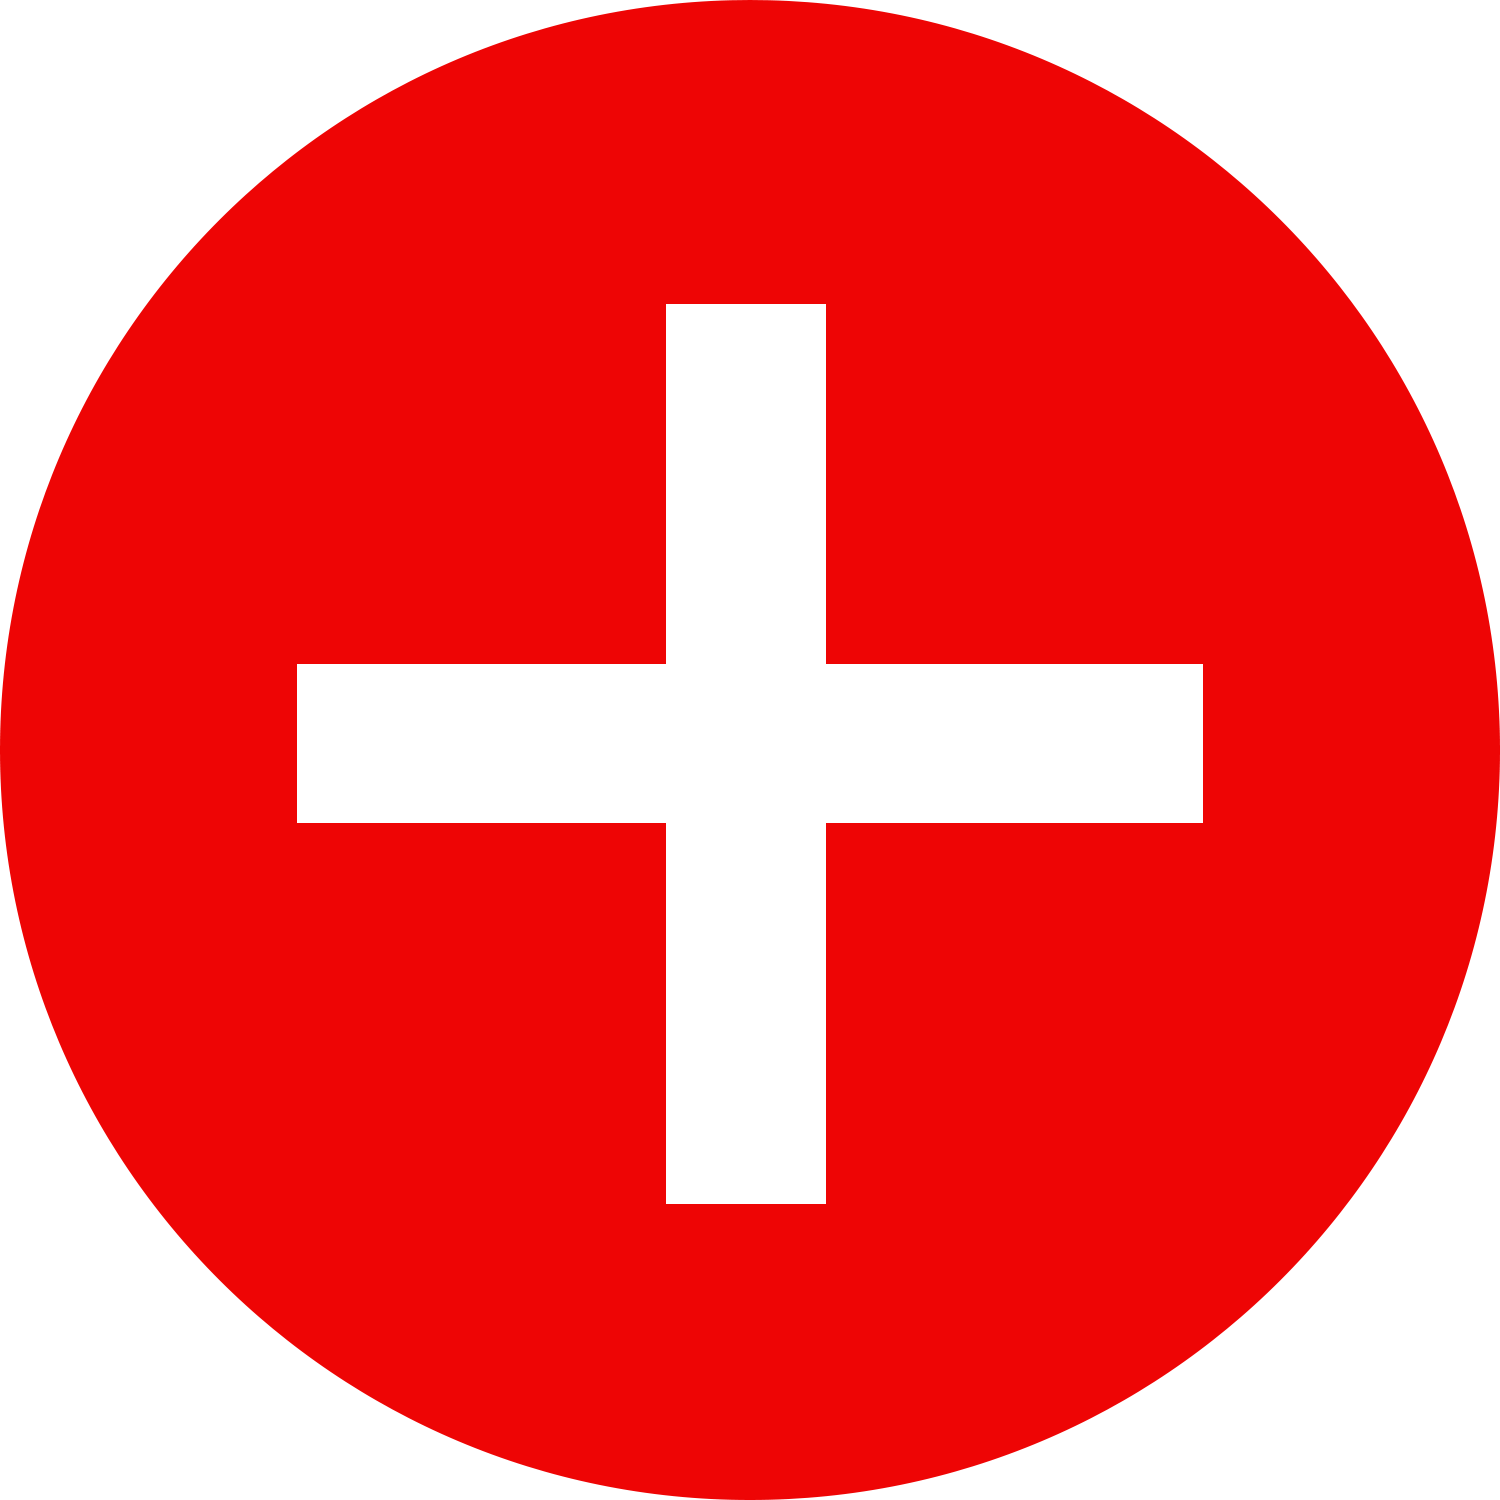
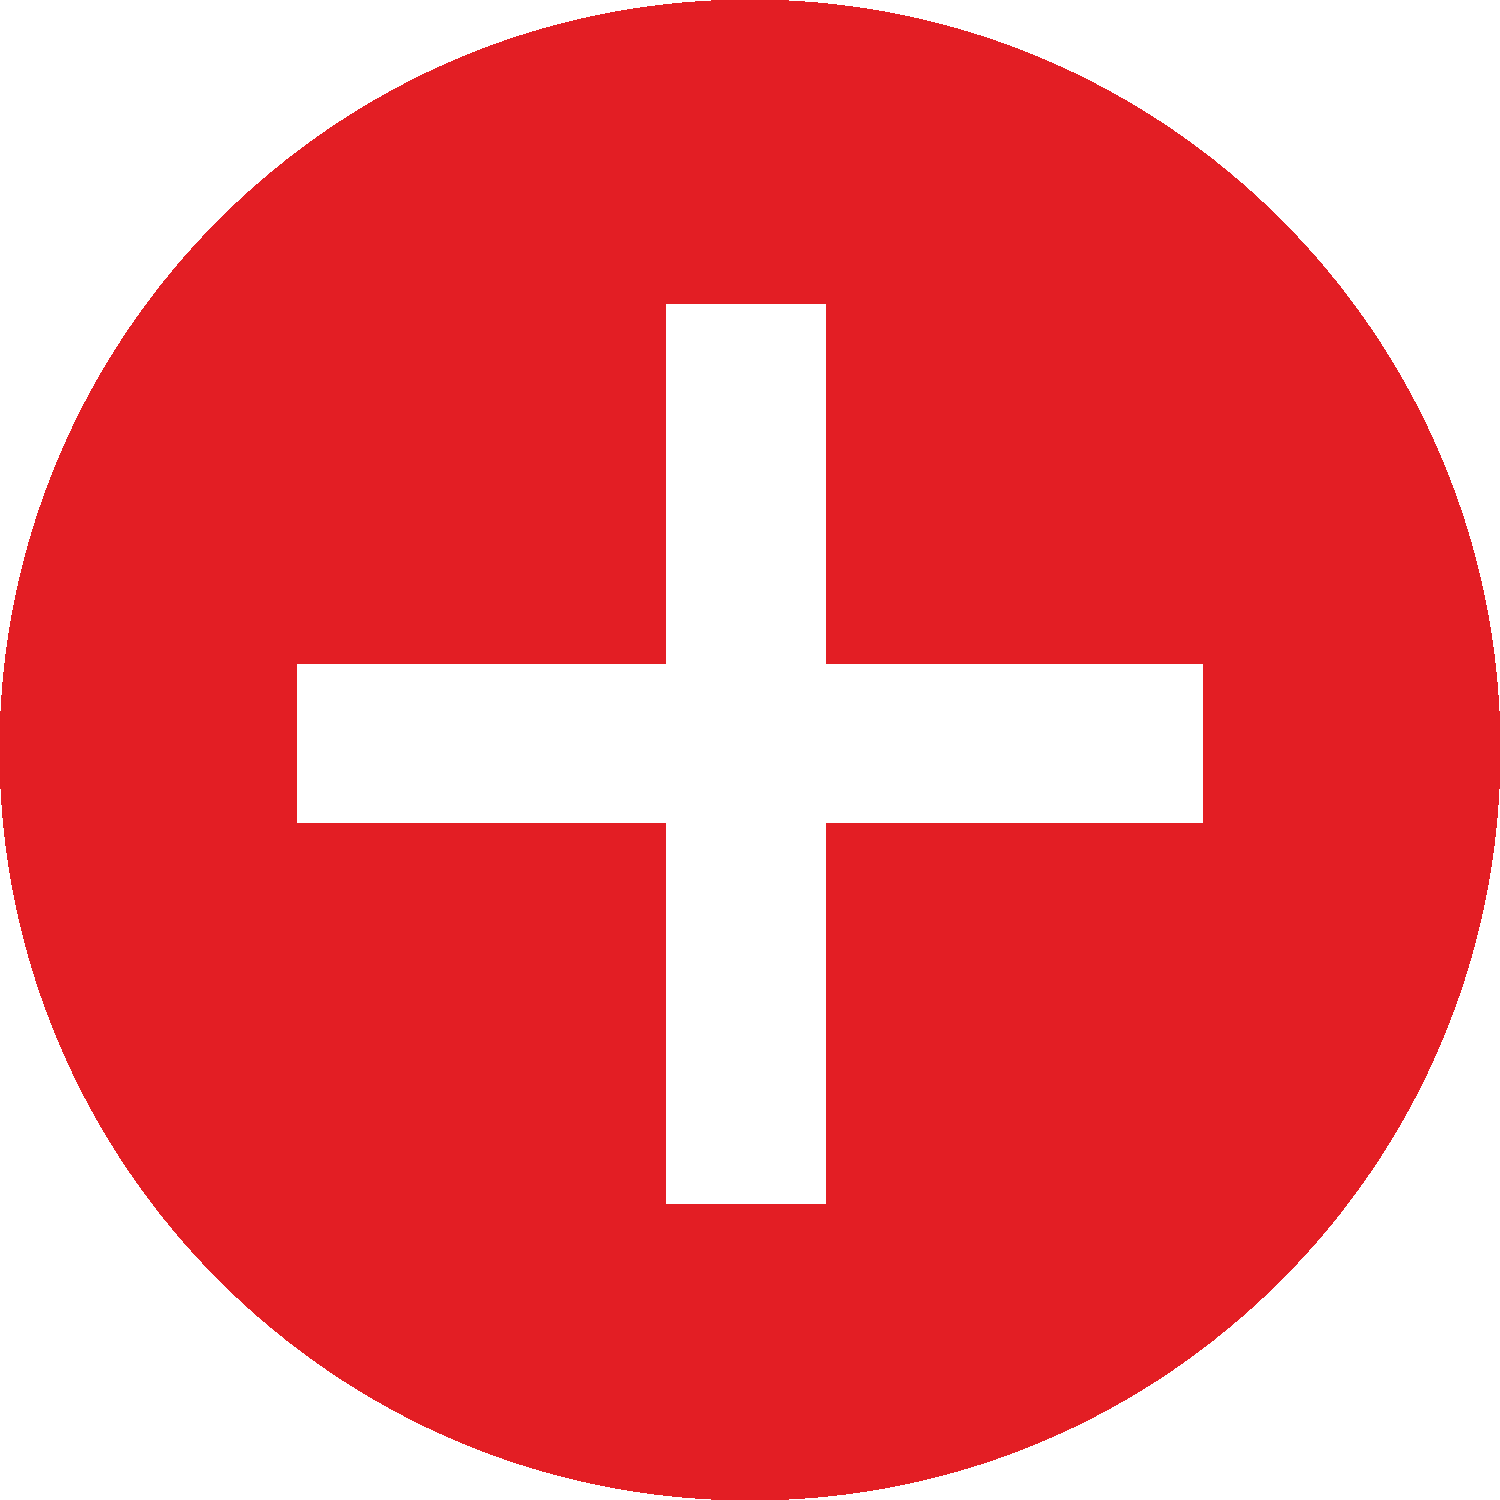
Changed styles.

diff --git a/GradeExpertCRM/GradeExpertCRM/Styles/Style.xaml b/GradeExpertCRM/GradeExpertCRM/Styles/Style.xaml
@@ -8,7 +8,7 @@
 		<Setter Property="Foreground" Value="#FFFFFFFF"/>
 		<Setter Property="BorderThickness" Value="0"/>
 		<Setter Property="Margin" Value="2 0 2 10"/>
-		<Setter Property="Background" Value="#EE0505"/>
+		<Setter Property="Background" Value="#E31E24"/>
 		<Setter Property="BorderBrush" Value="#FFFFFFFF"/>
 		<Setter Property="MaxHeight" Value="50"/>
 	</Style>
@@ -38,7 +38,7 @@
 	</Style>
 
     <Style Selector="Border.BorderOfText">
-        <Setter Property="BorderBrush" Value="#EE0505"/>
+        <Setter Property="BorderBrush" Value="#E31E24"/>
         <Setter Property="Padding" Value="5 0 5 0"/>
         <Setter Property="Margin" Value="5 0 10 0"/>
         <Setter Property="BorderThickness" Value="3"/>
@@ -49,7 +49,7 @@
 		<Setter Property="FontFamily" Value="Calibri"/>
 		<Setter Property="FontSize" Value="16"/>
 		<Setter Property="FontWeight" Value="Bold"/>
-		<Setter Property="Foreground" Value="#EE0505"/>
+		<Setter Property="Foreground" Value="#E31E24"/>
 		<Setter Property="Background" Value="#FFFFFFFF"/>
 		<Setter Property="Margin" Value="20 0 0 0"/>
 	</Style>
@@ -57,7 +57,7 @@
     <Style Selector="TextBlock.Label">
 		<Setter Property="FontFamily" Value="Calibri"/>
 		<Setter Property="FontSize" Value="16"/>
-		<Setter Property="Foreground" Value="#EE0505"/>
+		<Setter Property="Foreground" Value="#E31E24"/>
 		<Setter Property="Background" Value="#FFFFFFFF"/>
 		<Setter Property="FontWeight" Value="Bold"/>
 		<Setter Property="Padding" Value="6 0 6 0"/>
@@ -71,7 +71,7 @@
         <Setter Property="FontWeight" Value="Normal"/>
         <Setter Property="FontSize" Value="16"/>
         <Setter Property="HorizontalAlignment" Value="Center"/>
-        <Setter Property="Foreground" Value="#EE0505"/>
+        <Setter Property="Foreground" Value="#E31E24"/>
         <Setter Property="Background" Value="#FFFFFFFF"/>
     </Style>
 
@@ -82,9 +82,9 @@
 		<Setter Property="Foreground" Value="#000000"/>
 		<Setter Property="Background" Value="#FFFFFFFF"/>
 		<Setter Property="RowBackground" Value="#FFFFFFFF"/>
-		<Setter Property="BorderBrush" Value="#EE0505"/>
-		<Setter Property="HorizontalGridLinesBrush" Value="#EE0505"/>
-		<Setter Property="VerticalGridLinesBrush" Value="#EE0505"/>
+		<Setter Property="BorderBrush" Value="#E31E24"/>
+		<Setter Property="HorizontalGridLinesBrush" Value="#E31E24"/>
+		<Setter Property="VerticalGridLinesBrush" Value="#E31E24"/>
 		<Setter Property="Margin" Value="5 0 5 0"/>
 	</Style>
 
@@ -92,7 +92,7 @@
 		<Setter Property="FontFamily" Value="Calibri"/>
 		<Setter Property="FontWeight" Value="Normal"/>
 		<Setter Property="FontSize" Value="16"/>
-		<Setter Property="Foreground" Value="#EE0505"/>
+		<Setter Property="Foreground" Value="#E31E24"/>
 		<Setter Property="Background" Value="#FFFFFFFF"/>
 	</Style>
 </Styles>

diff --git a/GradeExpertCRM/GradeExpertCRM/ViewModels/MainWindowViewModel.cs b/GradeExpertCRM/GradeExpertCRM/ViewModels/MainWindowViewModel.cs
@@ -25,8 +25,8 @@ namespace GradeExpertCRM.ViewModels
         /// </summary>
         public MainWindowViewModel()
         {
-            //Content = new SignInViewModel();
-            Content = new MainViewModel();
+            Content = new SignInViewModel();
+            //Content = new MainViewModel();
         }
     }
 }
